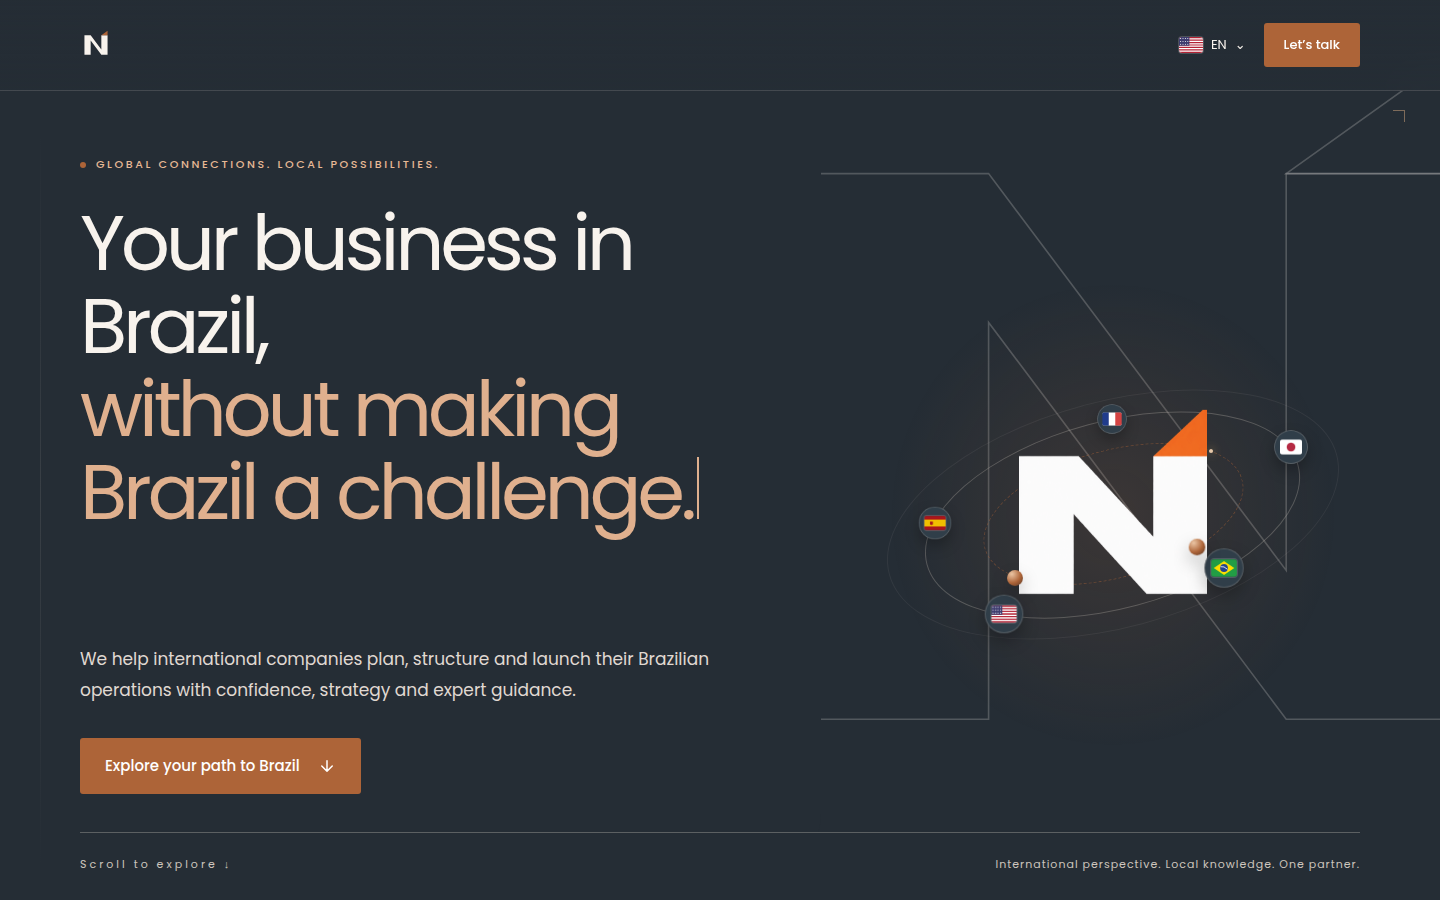
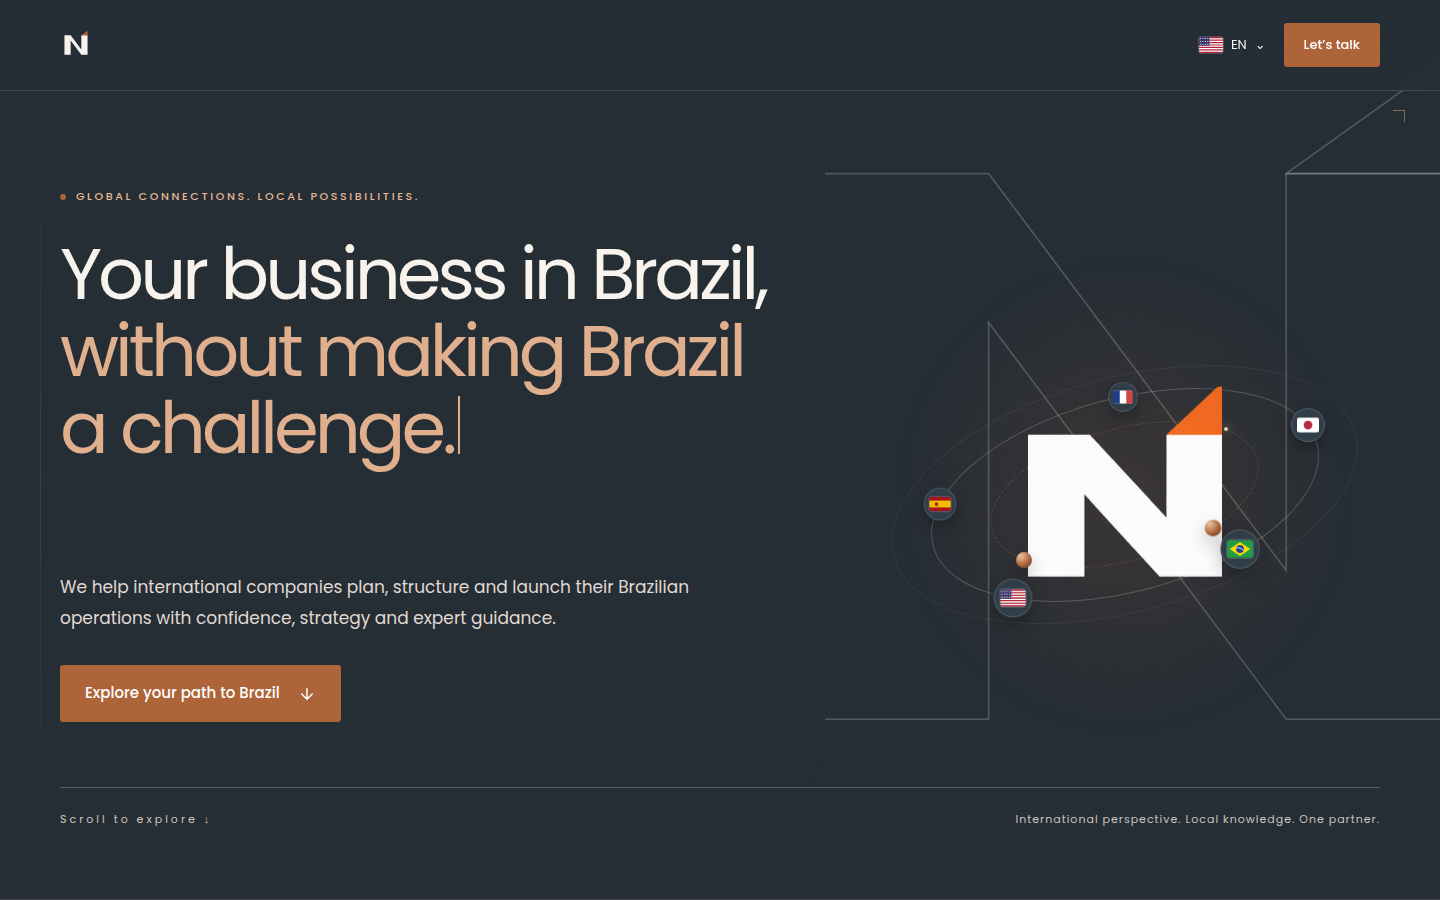
docs: refresh responsive screenshots and technical guide

diff --git a/README.md b/README.md
@@ -73,11 +73,13 @@ docs/
 
 ## Application Behavior
 
-The page contains nine sequential sections: home, Brazil, approach, process, services, company, team, contact, and FAQ. Section navigation uses native scrolling and anchor targets.
+Sections use content-driven height with a minimum of one viewport to support smaller displays and browser zoom. The page contains nine sequential sections: home, Brazil, approach, process, services, company, team, contact, and FAQ. Section navigation uses native scrolling and anchor targets.
 
 Language content is defined in `src/locales`. The selected locale persists in browser local storage under `nordion-language`.
 
 The opening constellation supports pointer and keyboard interaction. The Brazil map and city use separately loaded React Three Fiber scenes. Animation is limited to visible scenes, with static alternatives for reduced-motion preferences or unavailable WebGL.
+
+The team section includes seven named roles and a responsive organizational chart. Company email and Instagram links are available in the contact interface and footer. Floating contact controls appear after scrolling and hide when the contact section or footer is visible.
 
 The briefing form validates required fields and exports their values as `nordion-briefing.txt`. File generation runs in the browser through the Blob API; it does not require an API endpoint.
 

diff --git a/docs/image-credits.md b/docs/image-credits.md
@@ -31,7 +31,7 @@ All three were verified as free to use under the [Pexels License](https://www.pe
 
 `bridge-1920.webp` and `bridge-960.webp`: [Odinei Ramone — Ponte Octávio Frias de Oliveira](https://unsplash.com/photos/a-bridge-with-a-road-and-buildings-e86s9jQTsFg), free commercial use under the [Unsplash License](https://unsplash.com/license). Reviewed 2026-09-04. Monochrome architectural lines fit the graphite palette; CSS controls framing without modifying the source photograph.
 
-The team section uses seven conceptual profiles with silhouette illustrations. No identities are presented as actual staff. Profile data lives in `src/data/team.ts`.
+The team section uses the seven names and roles supplied for Nordion, with silhouette illustrations instead of photographs. Profile data lives in `src/data/team.ts`.
 
 ## Supplied brand symbol
 
